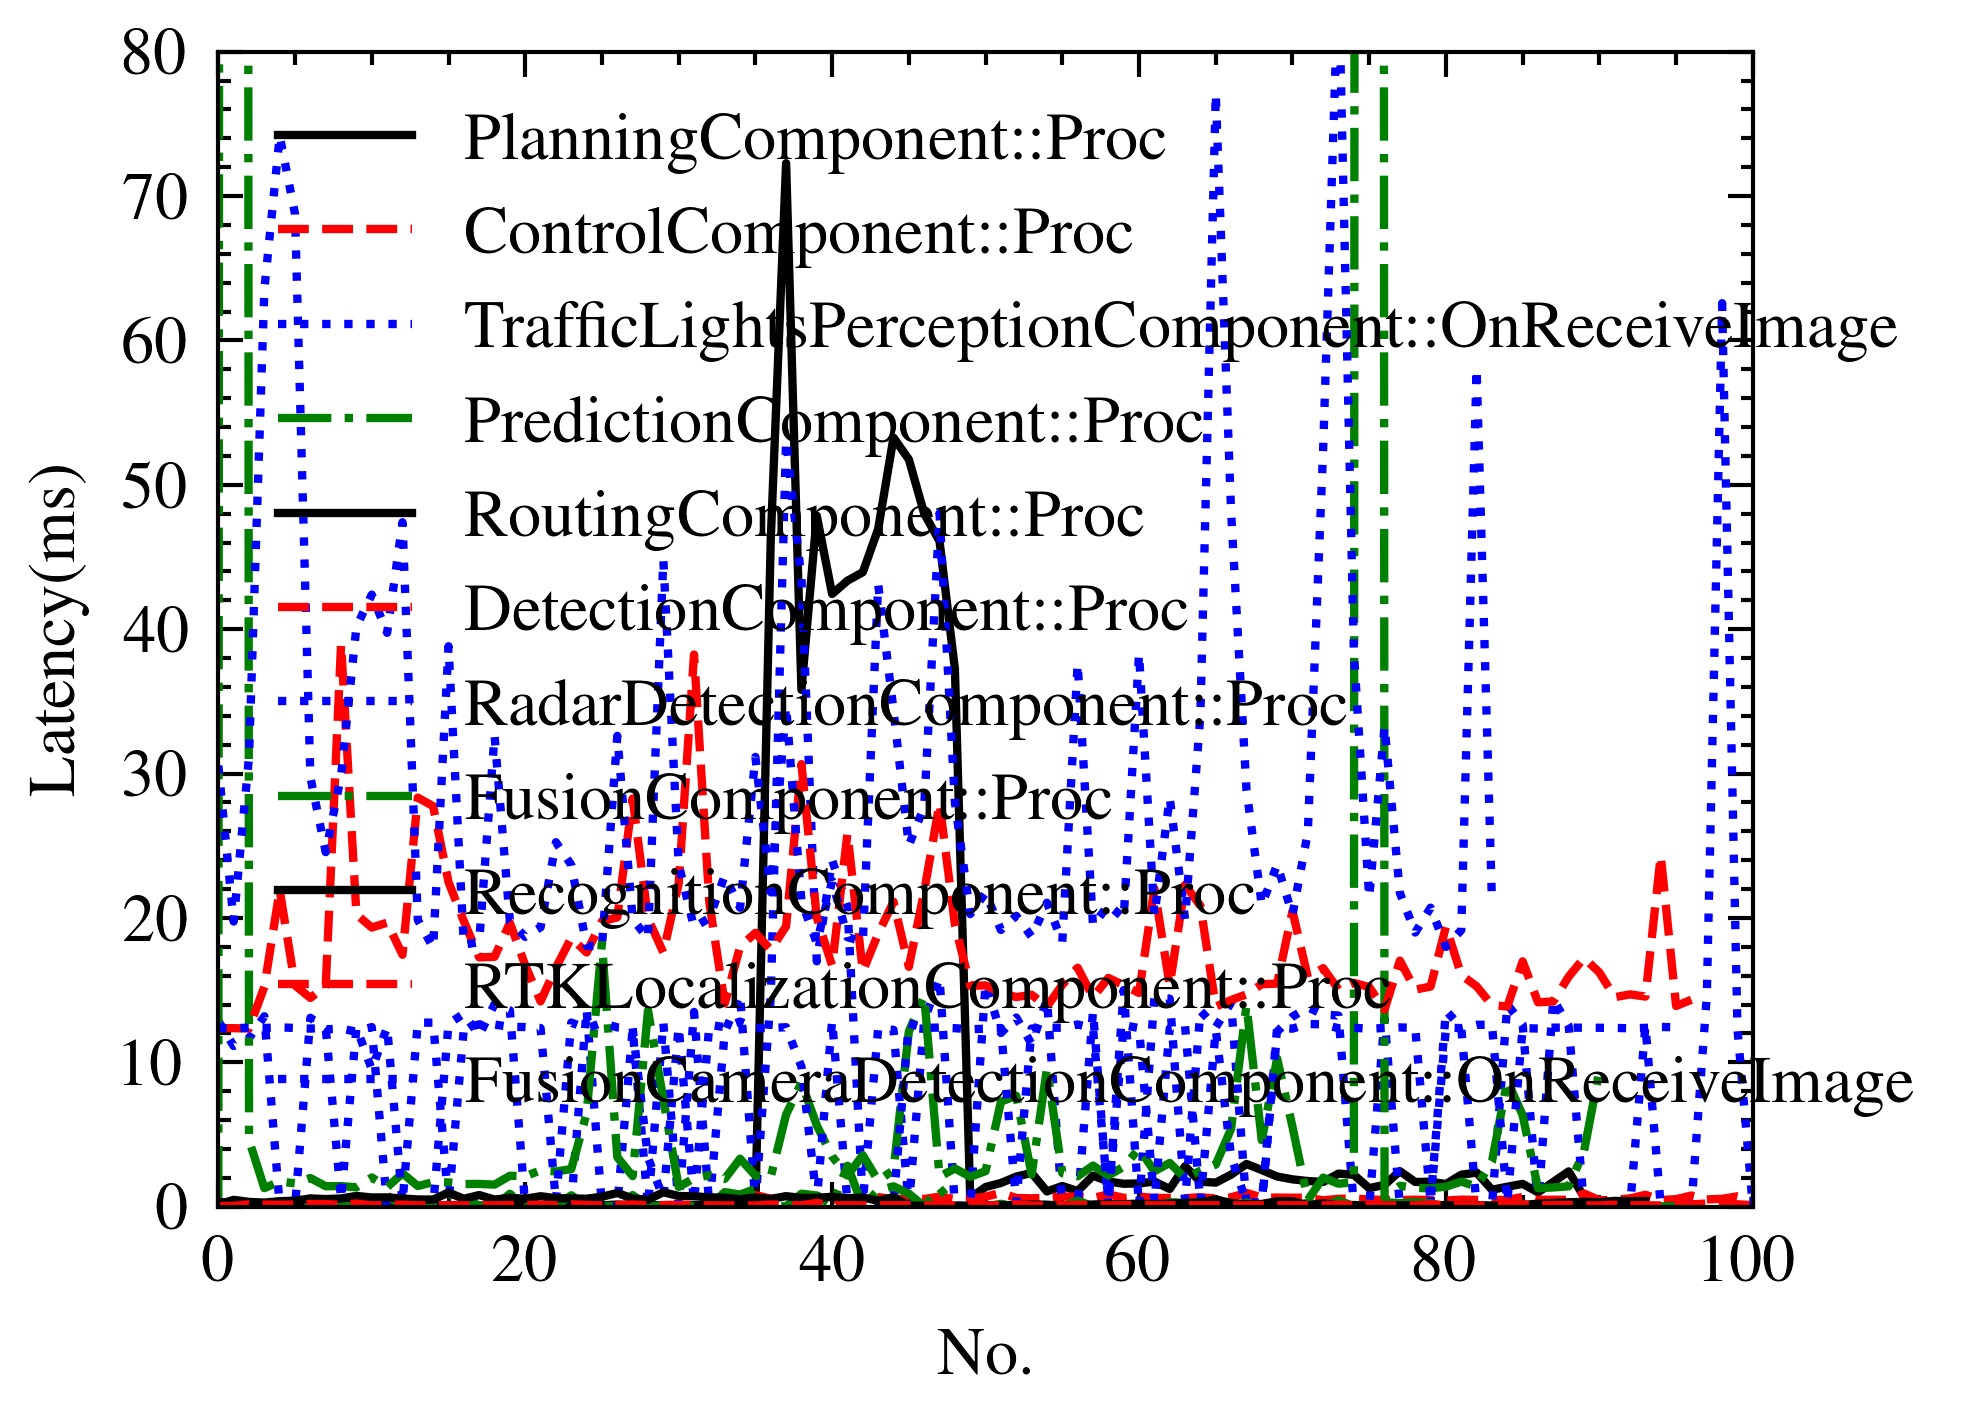
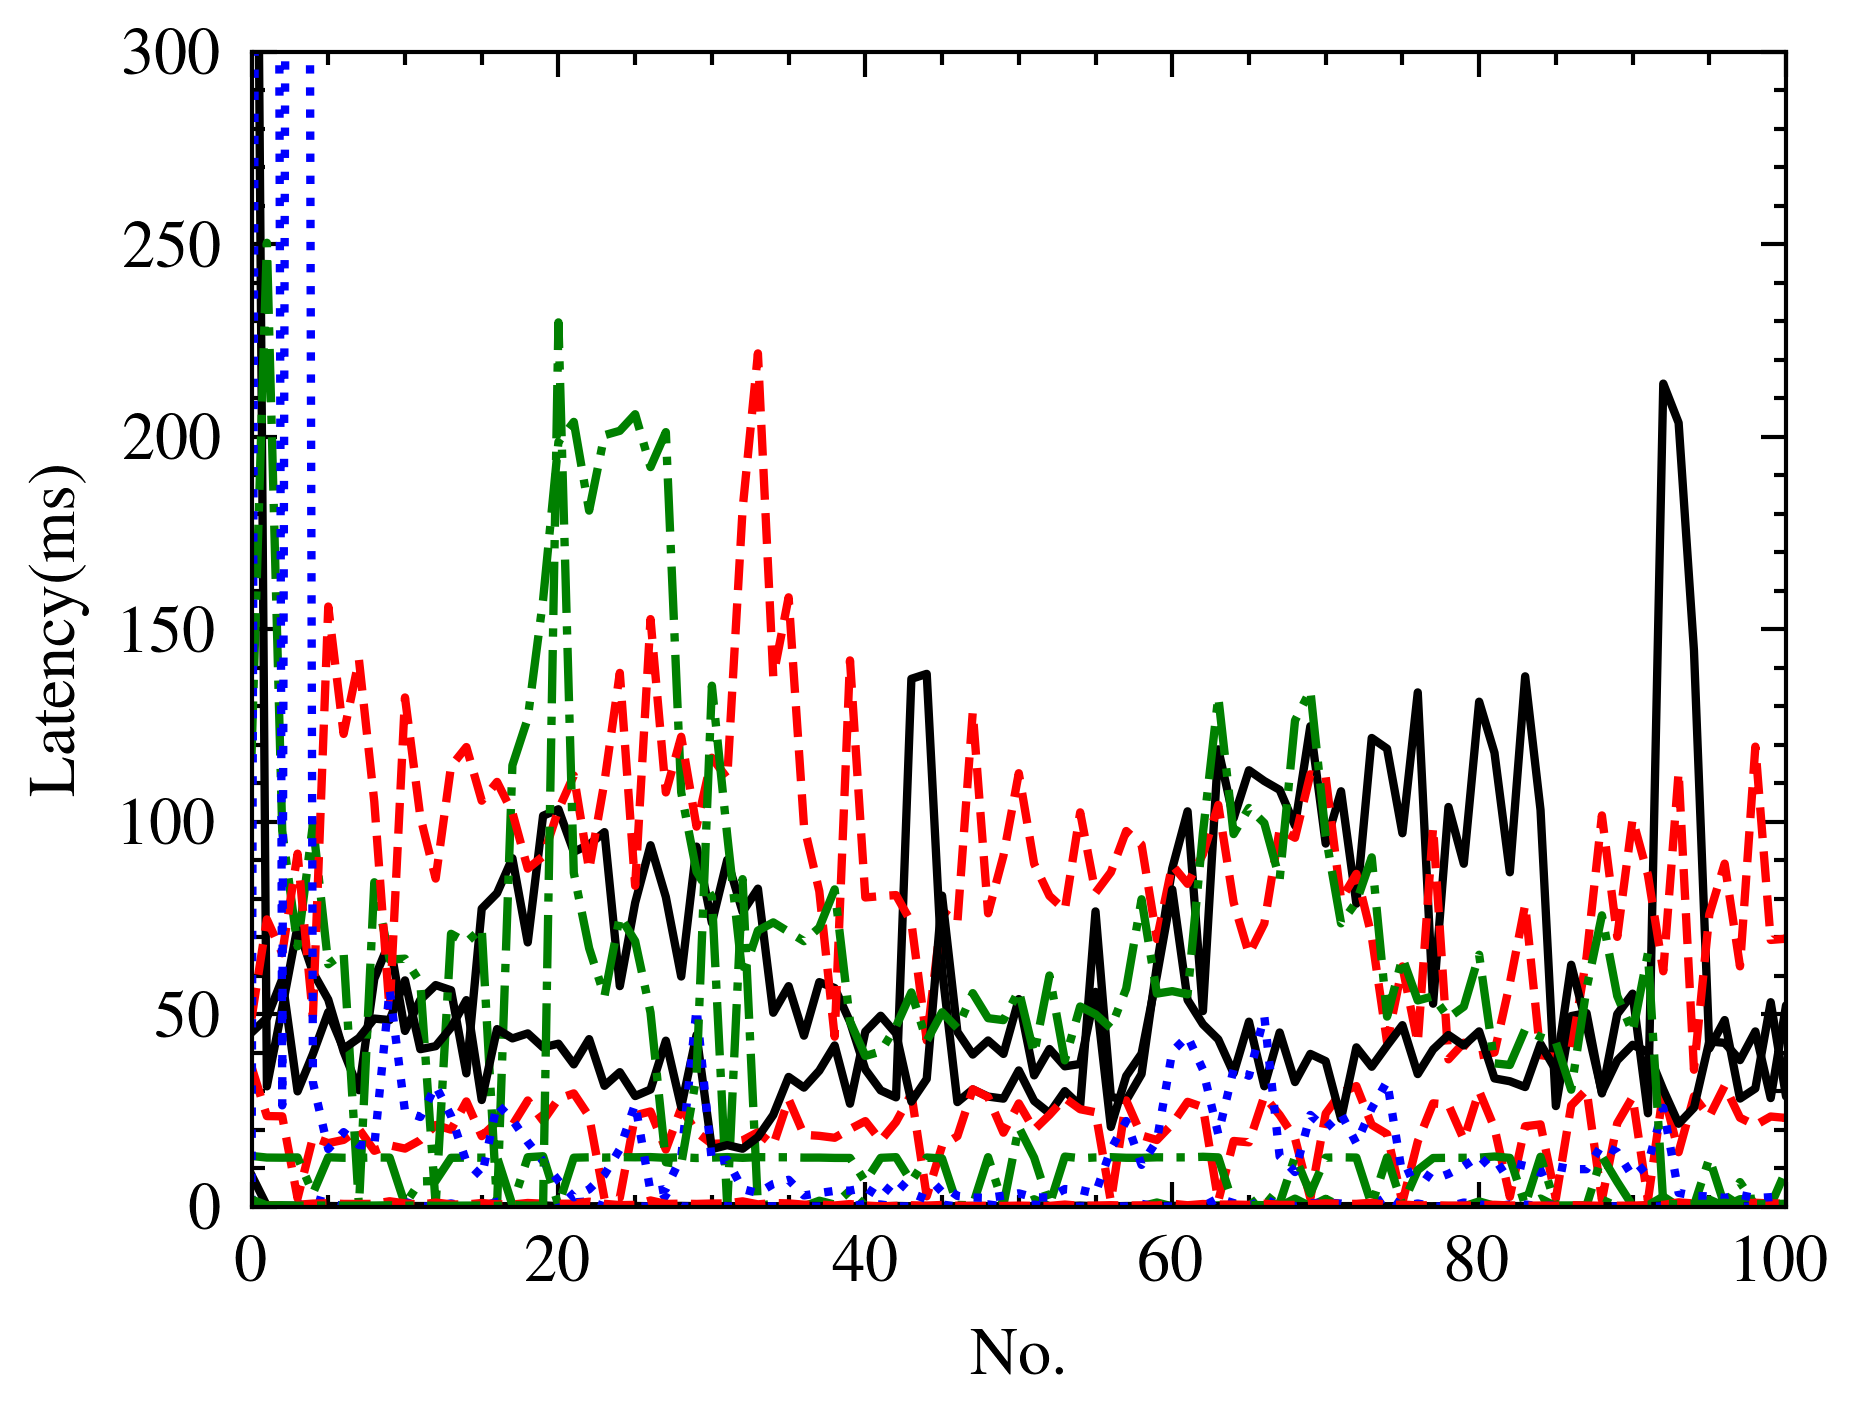
[Yuting] skip the realityMode check in tf

Changed region(s): [[0.0, 0.0, 0.9952, 0.8999], [0.4665, 0.9309, 0.5598, 0.9619], [0.933, 0.1551, 0.9641, 0.1862]]

diff --git a/um_dev/profiling/analyse/data_visualization.py b/um_dev/profiling/analyse/data_visualization.py
@@ -46,7 +46,7 @@ def plot_data(results):
     # data = np.log(data)
     plt.plot(range(len(data_list)), data,
              # color=COLORS[idx % len(COLORS)],
-             label=task_name,
+             # label=task_name,
              # marker=MARKERS[idx % len(MARKERS)],
              # linewidth=0.8,
              # markersize=0.8
@@ -55,10 +55,10 @@ def plot_data(results):
     plt.xlabel("No.")
     idx += 1
   plt.legend()
-  plt.axis([0, 100, 0, 80])
+  plt.axis([0, 100, 0, 300])
   plt.savefig("result.png")
   plt.show()
 
 if __name__ == "__main__":
-  results = load_data_from_dir("/home/tt/Codes/apollo/um_dev/profiling/results/lgsvl_radar")
+  results = load_data_from_dir("/home/tt/Codes/apollo/um_dev/profiling/results/lgsvl_3_30")
   plot_data(results)

diff --git a/modules/perception/onboard/transform_wrapper/transform_wrapper.cc b/modules/perception/onboard/transform_wrapper/transform_wrapper.cc
@@ -252,7 +252,7 @@ bool TransformWrapper::QueryTrans(double timestamp, StampedTransform* trans,
                                  static_cast<float>(FLAGS_obs_tf2_buff_size),
                                  &err_string)) {
     // In simulation mode, use the latest transform information if query failed.
-    if (!cyber::common::GlobalData::Instance()->IsRealityMode()) {
+    if (true || !cyber::common::GlobalData::Instance()->IsRealityMode()) {
       query_time = cyber::Time(0);
     } else {
       AERROR << "Can not find transform. " << FORMAT_TIMESTAMP(timestamp)

diff --git a/modules/perception/onboard/component/trafficlights_perception_component.cc b/modules/perception/onboard/component/trafficlights_perception_component.cc
@@ -313,7 +313,6 @@ int TrafficLightsPerceptionComponent::InitCameraFrame() {
 void TrafficLightsPerceptionComponent::OnReceiveImage(
     const std::shared_ptr<apollo::drivers::Image> msg,
     const std::string& camera_name) {
-  std::cout << "YUTING TAG\n";
   um_dev::profiling::UM_Timing timing("TrafficLightsPerceptionComponent::OnReceiveImage");
   std::lock_guard<std::mutex> lck(mutex_);
   double receive_img_timestamp = Clock::NowInSeconds();

diff --git a/um_dev/profiling/result_writer.cc b/um_dev/profiling/result_writer.cc
@@ -18,7 +18,7 @@ ProfilingResultWriter* ProfilingResultWriter::instance_ =
     new ProfilingResultWriter();
 
 ProfilingResultWriter::ProfilingResultWriter()
-    : throttle_threshold_(1.f), profiling_scenario_("lgsvl_2022_3_29") {
+    : throttle_threshold_(1.f), profiling_scenario_("lgsvl_4_1") {
   // Make profiling output directory for this time
   apollo::cyber::Time now = apollo::cyber::Time::Now();
   const std::string result_dir =
